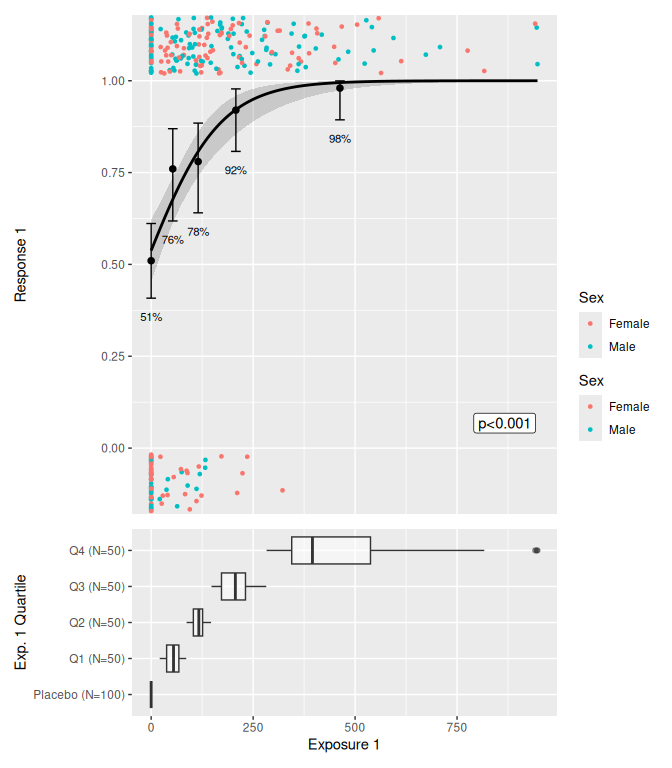
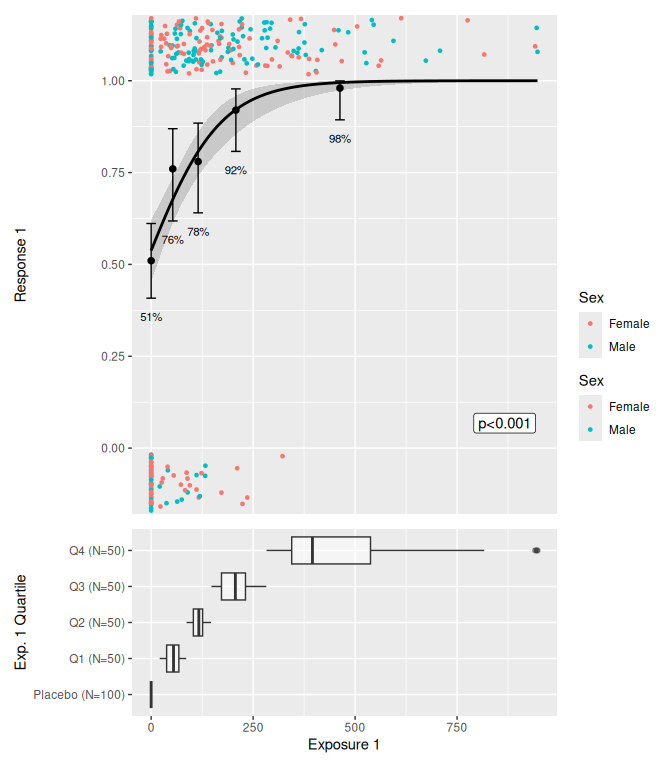
update readme

diff --git a/README.md b/README.md
@@ -30,15 +30,6 @@ pak::pak("djnavarro/erlr")
 
 ``` r
 library(erlr)
-library(dplyr)
-#> 
-#> Attaching package: 'dplyr'
-#> The following objects are masked from 'package:stats':
-#> 
-#>     filter, lag
-#> The following objects are masked from 'package:base':
-#> 
-#>     intersect, setdiff, setequal, union
 library(tibble)
 
 lr_data
@@ -121,8 +112,8 @@ lr_scm_history(mod2)
 #>   iteration attempt step       action term_tested model_tested   model_converged
 #>       <int>   <int> <chr>      <chr>  <chr>       <chr>          <lgl>          
 #> 1         0       0 base model <NA>   <NA>        response_1 ~ … TRUE           
-#> 2         1       1 backward   remove ~dose       response_1 ~ … TRUE           
-#> 3         1       2 backward   remove ~sex        response_1 ~ … TRUE           
+#> 2         1       1 backward   remove ~sex        response_1 ~ … TRUE           
+#> 3         1       2 backward   remove ~dose       response_1 ~ … TRUE           
 #> 4         2       3 backward   remove ~sex        response_1 ~ … TRUE           
 #> # ℹ 4 more variables: term_p_value <dbl>, model_aic <dbl>, model_bic <dbl>,
 #> #   model_updated <int>
@@ -137,16 +128,16 @@ sim
 #> # A tibble: 30,000 × 5
 #>    response_1 exposure_1 sex    row_id sim_id
 #>         <dbl>      <dbl> <fct>   <int>  <int>
-#>  1      0.891      148.  Male        1      1
-#>  2      0.760       79.7 Male        2      1
-#>  3      0.952      212.  Male        3      1
-#>  4      0.940      236.  Female      4      1
-#>  5      0.510        0   Male        5      1
-#>  6      0.613       71.0 Female      6      1
-#>  7      0.921      173.  Male        7      1
-#>  8      0.767      123.  Female      8      1
-#>  9      0.510        0   Male        9      1
-#> 10      0.855      165.  Female     10      1
+#>  1      0.833      148.  Male        1      1
+#>  2      0.759       79.7 Male        2      1
+#>  3      0.885      212.  Male        3      1
+#>  4      0.860      236.  Female      4      1
+#>  5      0.647        0   Male        5      1
+#>  6      0.668       71.0 Female      6      1
+#>  7      0.855      173.  Male        7      1
+#>  8      0.742      123.  Female      8      1
+#>  9      0.647        0   Male        9      1
+#> 10      0.792      165.  Female     10      1
 #> # ℹ 29,990 more rows
 
 lr_vpc_plot(mod, sim, group_by = exposure_1)
